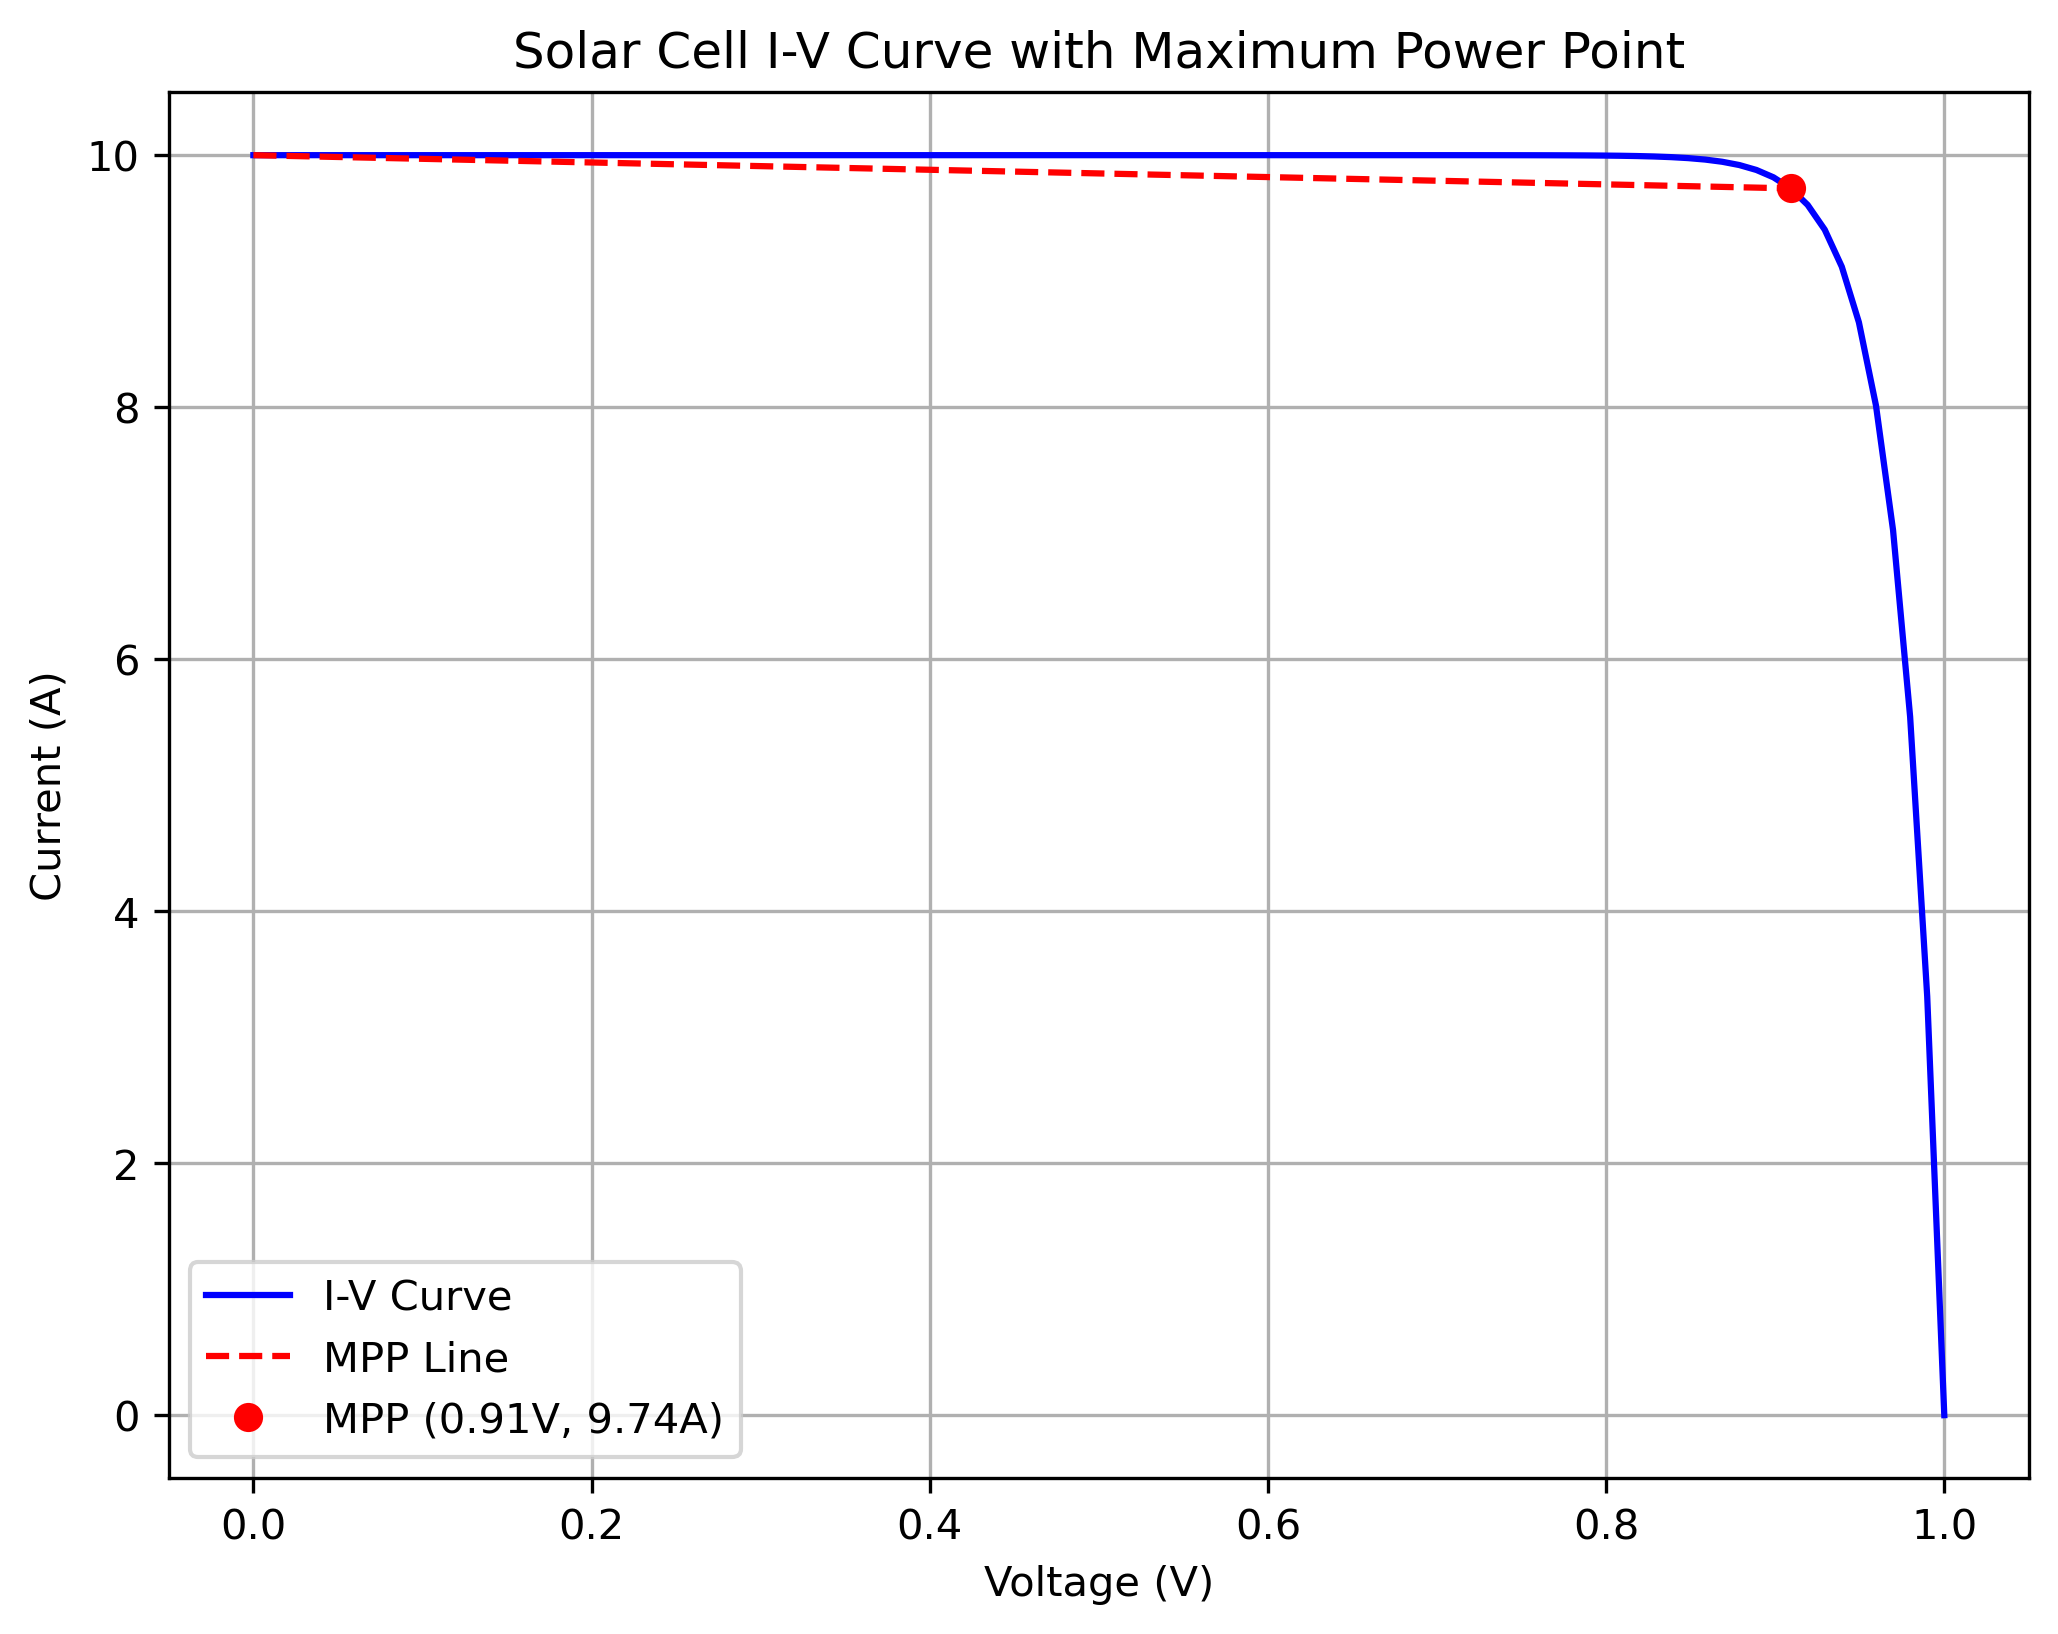
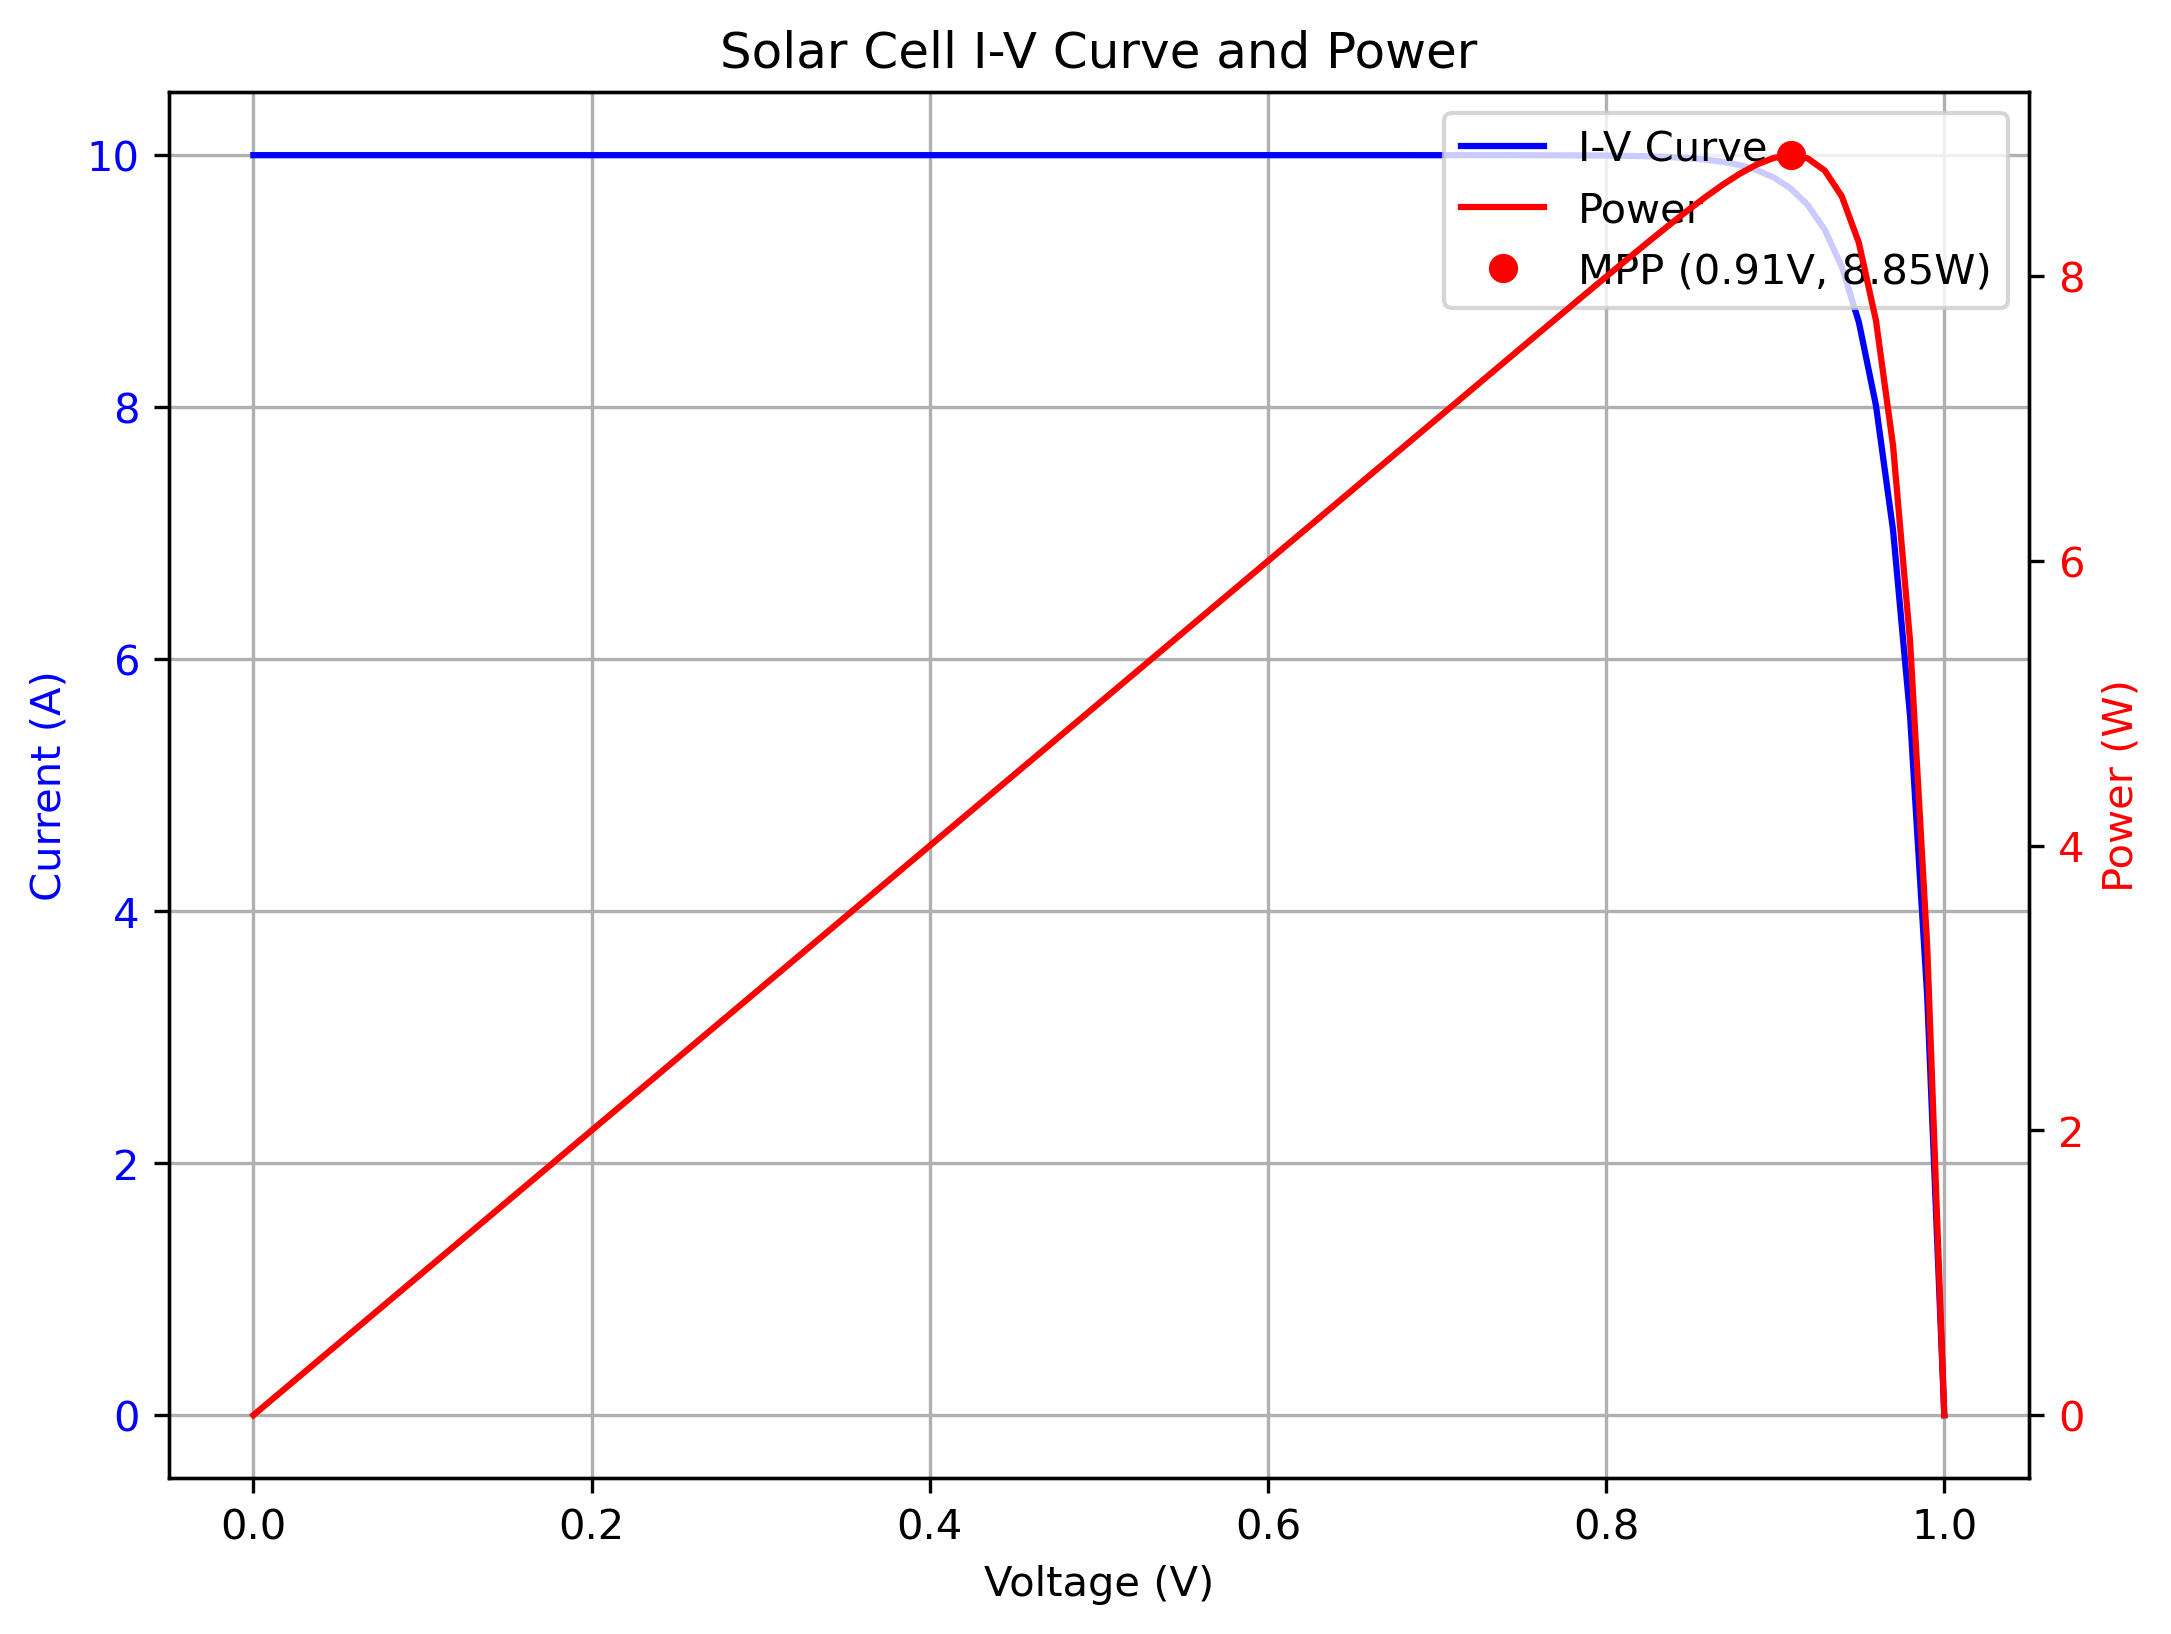
Update I-V curve plot to show power curve and MPP correctly

diff --git a/scripts/generate_iv_curve.py b/scripts/generate_iv_curve.py
@@ -16,17 +16,33 @@ mpp_v = V[mpp_idx]
 mpp_i = I[mpp_idx]
 mpp_p = P[mpp_idx]
 
-# Create plot
-plt.figure(figsize=(8, 6))
-plt.plot(V, I, 'b-', label='I-V Curve')
-plt.plot([0, mpp_v], [I[0], mpp_i], 'r--', label='MPP Line')
-plt.plot(mpp_v, mpp_i, 'ro', label=f'MPP ({mpp_v:.2f}V, {mpp_i:.2f}A)')
+# Create figure with two y-axes
+fig, ax1 = plt.subplots(figsize=(8, 6))
+ax2 = ax1.twinx()
 
-plt.grid(True)
-plt.xlabel('Voltage (V)')
-plt.ylabel('Current (A)')
-plt.title('Solar Cell I-V Curve with Maximum Power Point')
-plt.legend()
+# Plot I-V curve
+ax1.plot(V, I, 'b-', label='I-V Curve')
+ax1.set_xlabel('Voltage (V)')
+ax1.set_ylabel('Current (A)', color='b')
+ax1.tick_params(axis='y', labelcolor='b')
+
+# Plot power curve
+ax2.plot(V, P, 'r-', label='Power')
+ax2.set_ylabel('Power (W)', color='r')
+ax2.tick_params(axis='y', labelcolor='r')
+
+# Plot MPP point
+ax2.plot(mpp_v, mpp_p, 'ro', label=f'MPP ({mpp_v:.2f}V, {mpp_p:.2f}W)')
+
+# Add grid
+ax1.grid(True)
+
+# Add legends
+lines1, labels1 = ax1.get_legend_handles_labels()
+lines2, labels2 = ax2.get_legend_handles_labels()
+ax1.legend(lines1 + lines2, labels1 + labels2, loc='upper right')
+
+plt.title('Solar Cell I-V Curve and Power')
 
 # Save plot
 plt.savefig('images/IV_curve_example.png', dpi=300, bbox_inches='tight')

diff --git a/README.md b/README.md
@@ -21,7 +21,7 @@ The logarithmic resistor array and optional MOSFET configuration allow measureme
 ## Example I-V Curve
 ![Example I-V curve showing Maximum Power Point](./images/IV_curve_example.png)
 
-The analyzer measures the I-V characteristics by sweeping through different load resistances. The blue line indicates the Maximum Power Point (MPP), which is automatically calculated and displayed during measurements.
+The analyzer measures both the I-V characteristics (blue curve) and power output (red curve) by sweeping through different load resistances. The Maximum Power Point (MPP) is identified at the peak of the power curve, representing the optimal operating point for maximum power output. This example was generated using the included Python script in `scripts/generate_iv_curve.py`.
 
 ## Hardware Overview
 ```markdown
